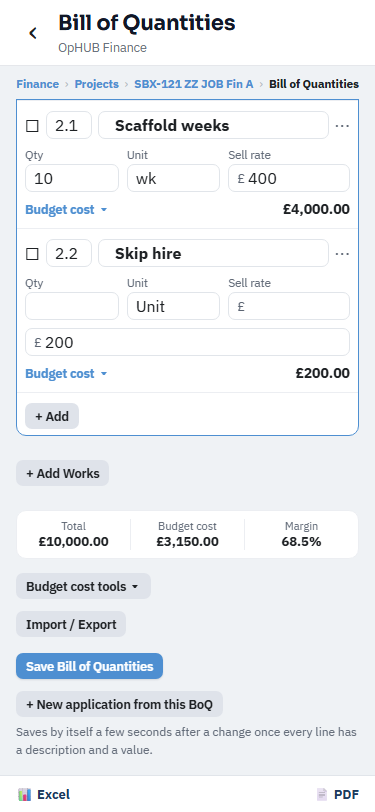
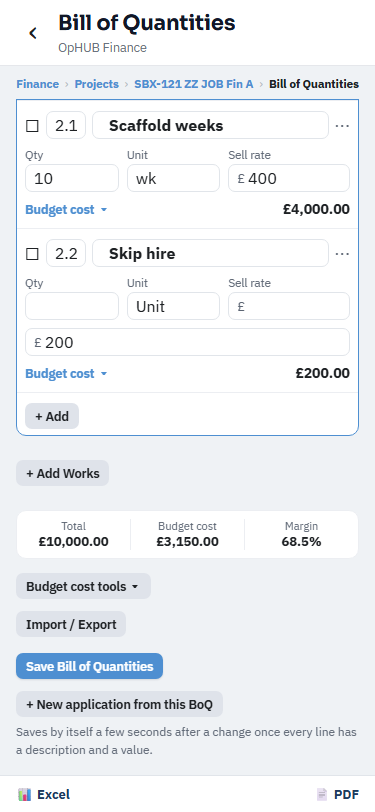
Bill of Quantities on a phone: ref numbers 85% of their size.
Claude-Session: https://claude.ai/code/session_012KhfNvBEbifMJmPdX7yZfp

diff --git a/app-native/src/app/(app)/fin/job/[id]/boq.tsx b/app-native/src/app/(app)/fin/job/[id]/boq.tsx
@@ -283,7 +283,7 @@ function Editor({ id, initial, me }: { id: string; initial: Row[]; me: Profile }
           <View style={{ borderWidth: 1, borderColor: sec ? t.brand1 : r.kind === 'subsection' ? '#DFE3EA' : base.cardLine, borderRadius: 8, paddingVertical: head ? (desk ? 2 : 4) : desk ? 6 : 10, paddingHorizontal: 8, marginBottom: 6, backgroundColor: sec ? t.brand1 : r.kind === 'subsection' ? '#DFE3EA' : base.card, marginLeft: r.kind === 'subsection' ? 10 : 0, ...(rows[g[0]].kind === 'section' ? { marginBottom: 0, marginLeft: 0, borderRadius: 0, borderWidth: 0, borderBottomWidth: 1, borderBottomColor: base.cardLine, ...(sec ? { borderTopLeftRadius: 8, borderTopRightRadius: 8 } : null) } : null), zIndex: rows.length - i }}>
             <View style={{ flexDirection: 'row', gap: 6, alignItems: 'center' }}>
               <Pressable hitSlop={6} focusable={false} accessibilityLabel="Tick" onPress={() => (head ? tick(grp, !on) : set(i, '_sel', !on))}><Text style={{ fontSize: 17, color: head ? ink : base.ink }}>{on ? '☑' : '☐'}</Text></Pressable>
-              <TextInput value={refs[i]} onChangeText={(v) => set(i, 'ref', v)} placeholder="Ref" placeholderTextColor={head ? ink : undefined} style={[box, slim, { width: desk ? 64 : head ? 34 : 46 }, head && headBox]} />
+              <TextInput value={refs[i]} onChangeText={(v) => set(i, 'ref', v)} placeholder="Ref" placeholderTextColor={head ? ink : undefined} style={[box, slim, { width: desk ? 64 : head ? 30 : 40 }, head && headBox, !desk && { fontSize: 11 }]} />
               <TextInput value={r.description || ''} onChangeText={(v) => set(i, 'description', v)} placeholder={head ? (r.kind === 'section' ? 'Section heading' : 'Sub-section heading') : 'Description'} placeholderTextColor={head ? ink : undefined} autoFocus={openK === r._k} multiline={!head} onContentSizeChange={head ? undefined : (e) => { const h = Math.ceil(e.nativeEvent.contentSize.height); setDescH((o) => (o[r._k] === h ? o : { ...o, [r._k]: h })); }} onKeyPress={head ? undefined : (e) => { const n = e.nativeEvent as unknown as { key: string; shiftKey?: boolean }; if (n.key === 'Tab' && !n.shiftKey) { (e as unknown as { preventDefault: () => void }).preventDefault(); qtyBox.current[r._k]?.focus(); } }} style={[box, slim, { flex: 1, minWidth: 0, height: Math.max(28, descH[r._k] || 0), paddingVertical: 4, lineHeight: 18, fontWeight: desk ? '400' : '700', paddingLeft: desk ? 8 : 16 }, head && { ...headBox, flex: 1, minWidth: 0 }]} />
               {head && <Text style={{ fontWeight: '800', color: ink, minWidth: desk ? 90 : 0, fontSize: desk ? 14 : 12.5, textAlign: 'right' }}>{money(tots[i]?.value || 0)}</Text>}
               <Pressable hitSlop={6} focusable={false} onPress={async () => {
